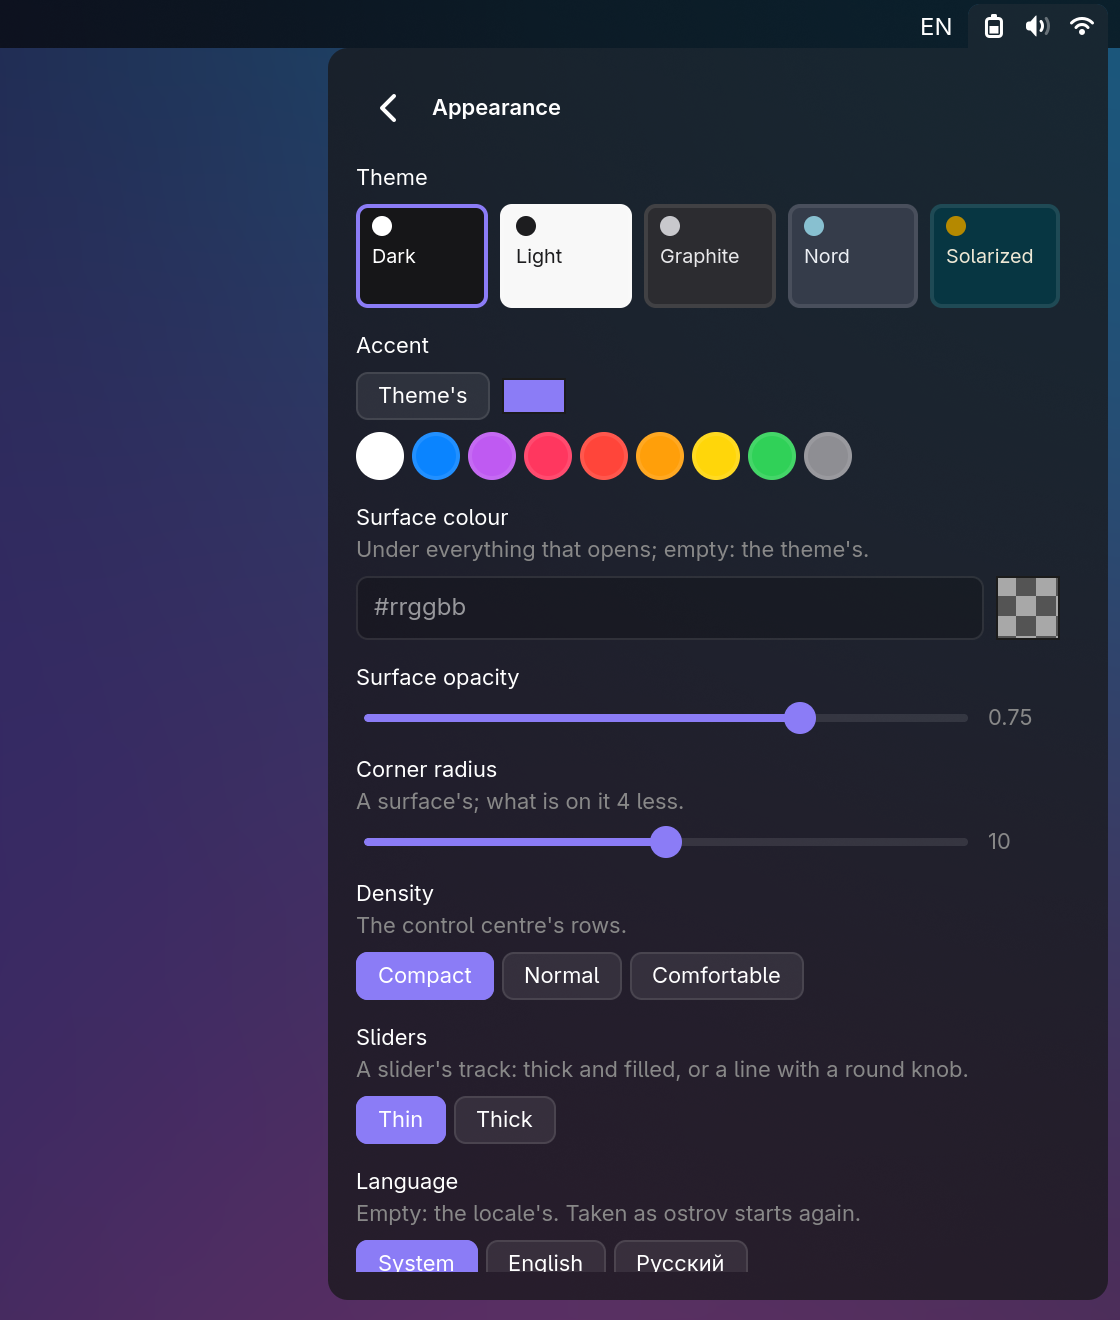
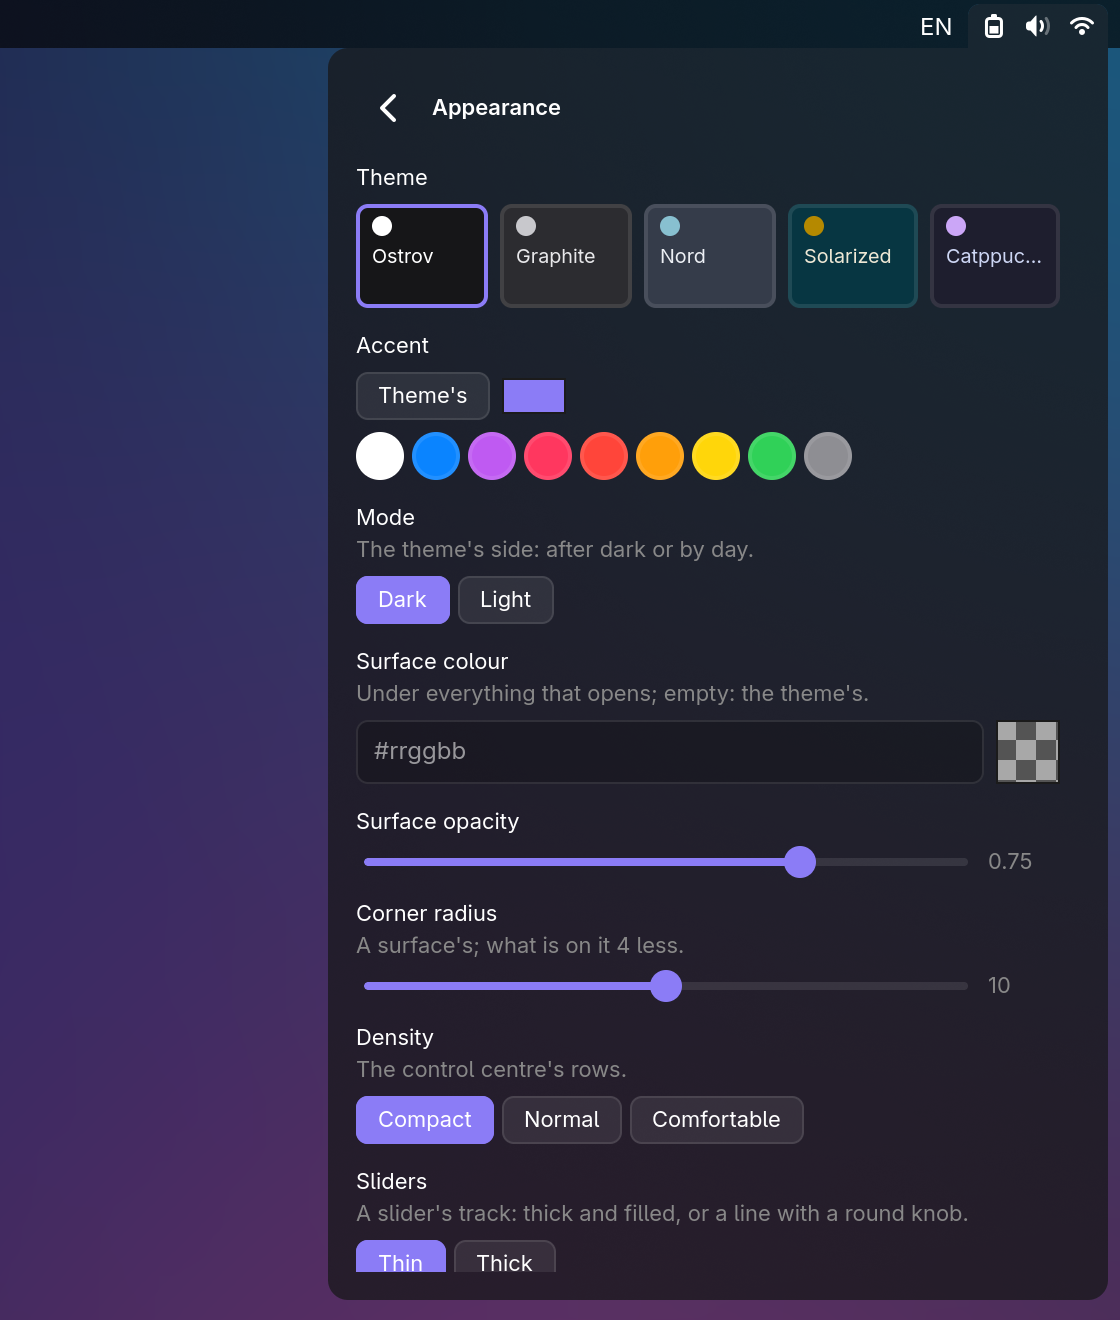
docs(readme): themes dark and light, the apps in ostrov's look; screenshots again, by day too

diff --git a/README.md b/README.md
@@ -16,8 +16,11 @@ config to write before it works.
   notifications, a lock screen. A welcome sets the look in a minute. No file to edit.
 - **Yours to arrange.** The control centre and the calendar are grids of widgets you drag, resize and add from a
   gallery, like on a Mac. The bar too: drag its blocks where you want them.
-- **Beautiful out of the box.** Blur, smooth motion, five themes and any accent colour, all set from its own
-  Appearance page.
+- **Beautiful out of the box.** Blur, smooth motion, five themes each after dark and by day, any accent colour,
+  all set from its own Appearance page.
+- **The whole desktop in its look.** GTK apps and file managers, Chrome, your terminal, tmux, Neovim, k9s,
+  Discord and more follow its theme and switch with it, dark or light; more from a catalogue, or your own in a
+  few lines.
 - **Light.** Native GTK 4 and Rust, one process, no web views.
 - **Grows with you.** Widgets in a few lines of KDL, plugins in any language, installed by name from a catalogue:
   screen recording, the night light, CalDAV calendars, removable drives, system updates.
@@ -32,12 +35,12 @@ config to write before it works.
 <td align="center">Arrange it your way</td>
 </tr>
 <tr>
-<td><img src="docs/screenshots/appearance.png" alt="The Appearance page: themes and accents"></td>
-<td><img src="docs/screenshots/night.png" alt="Brightness with the night light"></td>
+<td><img src="docs/screenshots/light.png" alt="The control centre by day, GitHub's Light"></td>
+<td><img src="docs/screenshots/appearance.png" alt="The Appearance page: themes, their dark and light sides, accents"></td>
 </tr>
 <tr>
-<td align="center">Themes and accents</td>
-<td align="center">The night light under brightness</td>
+<td align="center">By day</td>
+<td align="center">Themes, dark or light, any accent</td>
 </tr>
 </table>
 
@@ -57,7 +60,9 @@ config to write before it works.
 | grim, slurp | screenshots |
 | hyprpolkitagent, ssh-askpass | password questions in one dialog |
 
-One look, one config, one place to change it.
+One look, one config, one place to change it. And the apps you keep take that look too: `ostrov apps` connects
+alacritty, kitty, foot, ghostty, WezTerm, tmux, Neovim, Helix, btop, k9s, fzf, zathura, Discord, Telegram and
+Hyprland's borders, installs rofi and qutebrowser from its catalogue, and takes your own ([docs/apps.md](docs/apps.md)).
 
 ## Install
 
